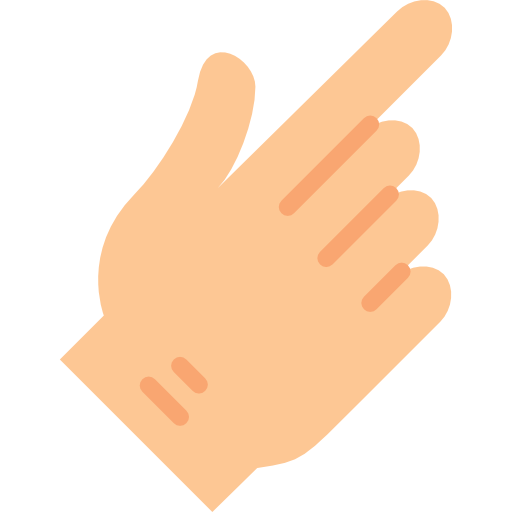
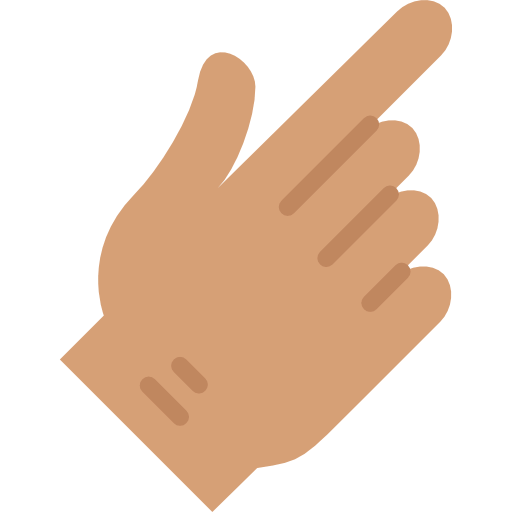
hand color + orientation fix

diff --git a/css/frame5.css b/css/frame5.css
@@ -86,7 +86,7 @@ span {
   opacity: 1;
   position: absolute;
   top: 0px;
-  left: 0px;
+  left: 10px;
   border-top-left-radius: 8px;
   border-top-right-radius: 8px;
   border-bottom-left-radius: 8px;
